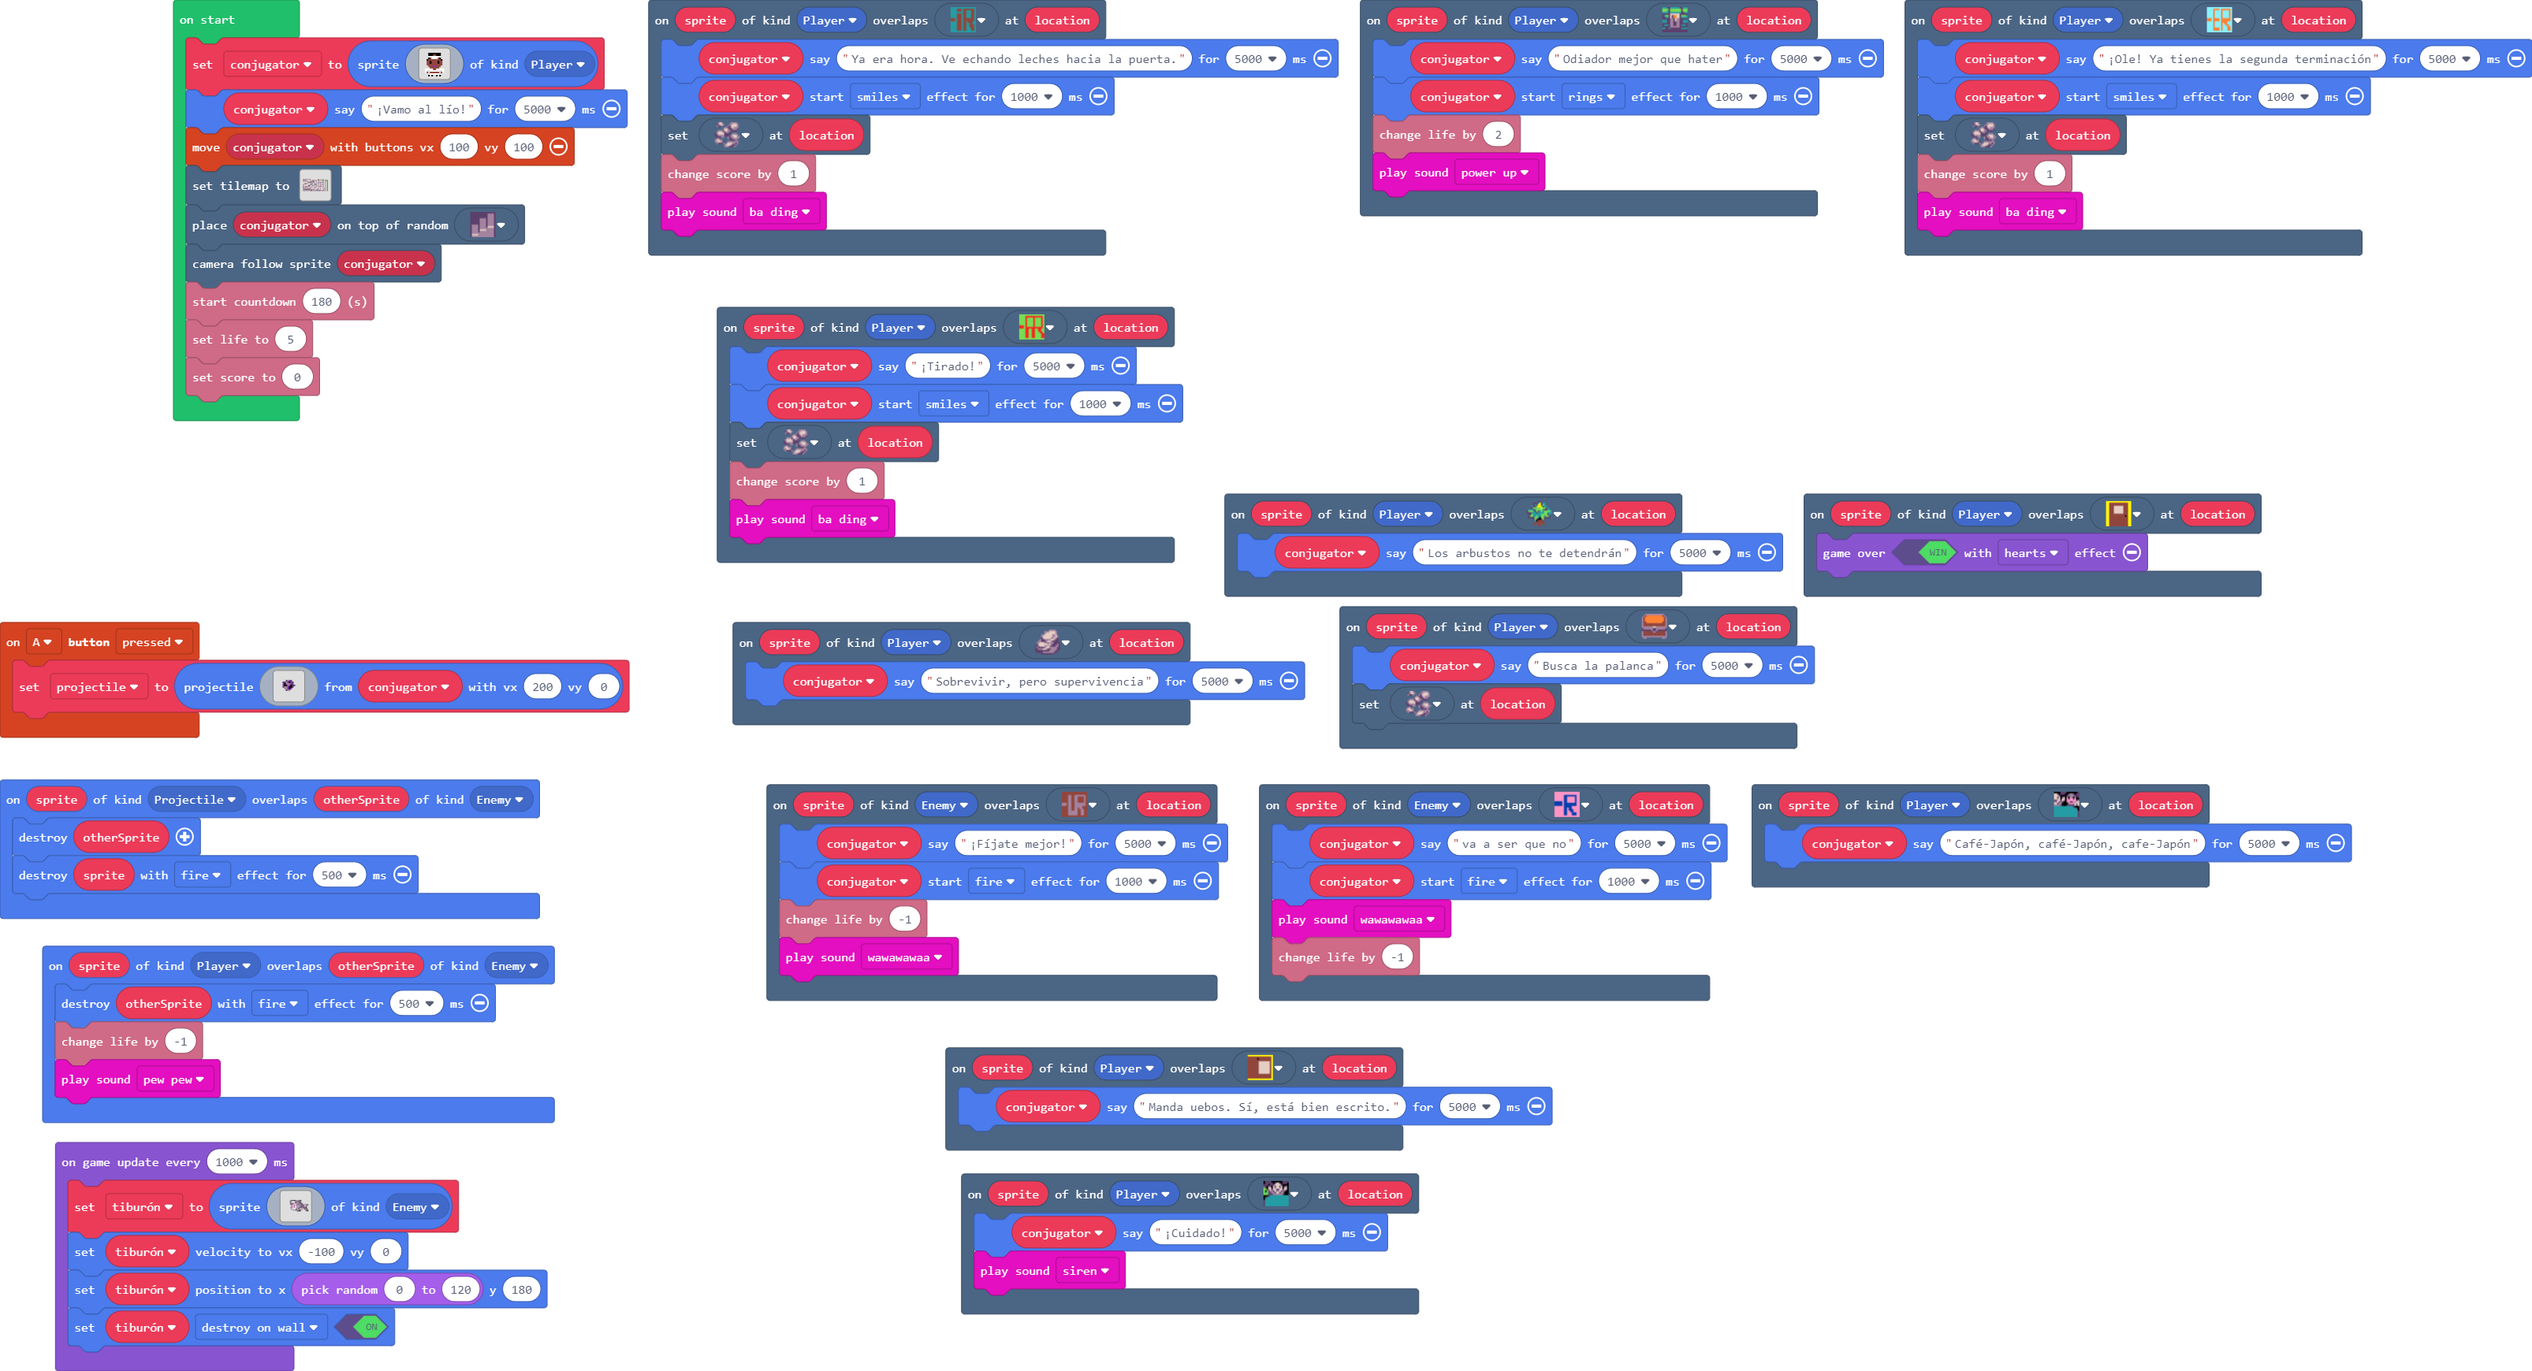
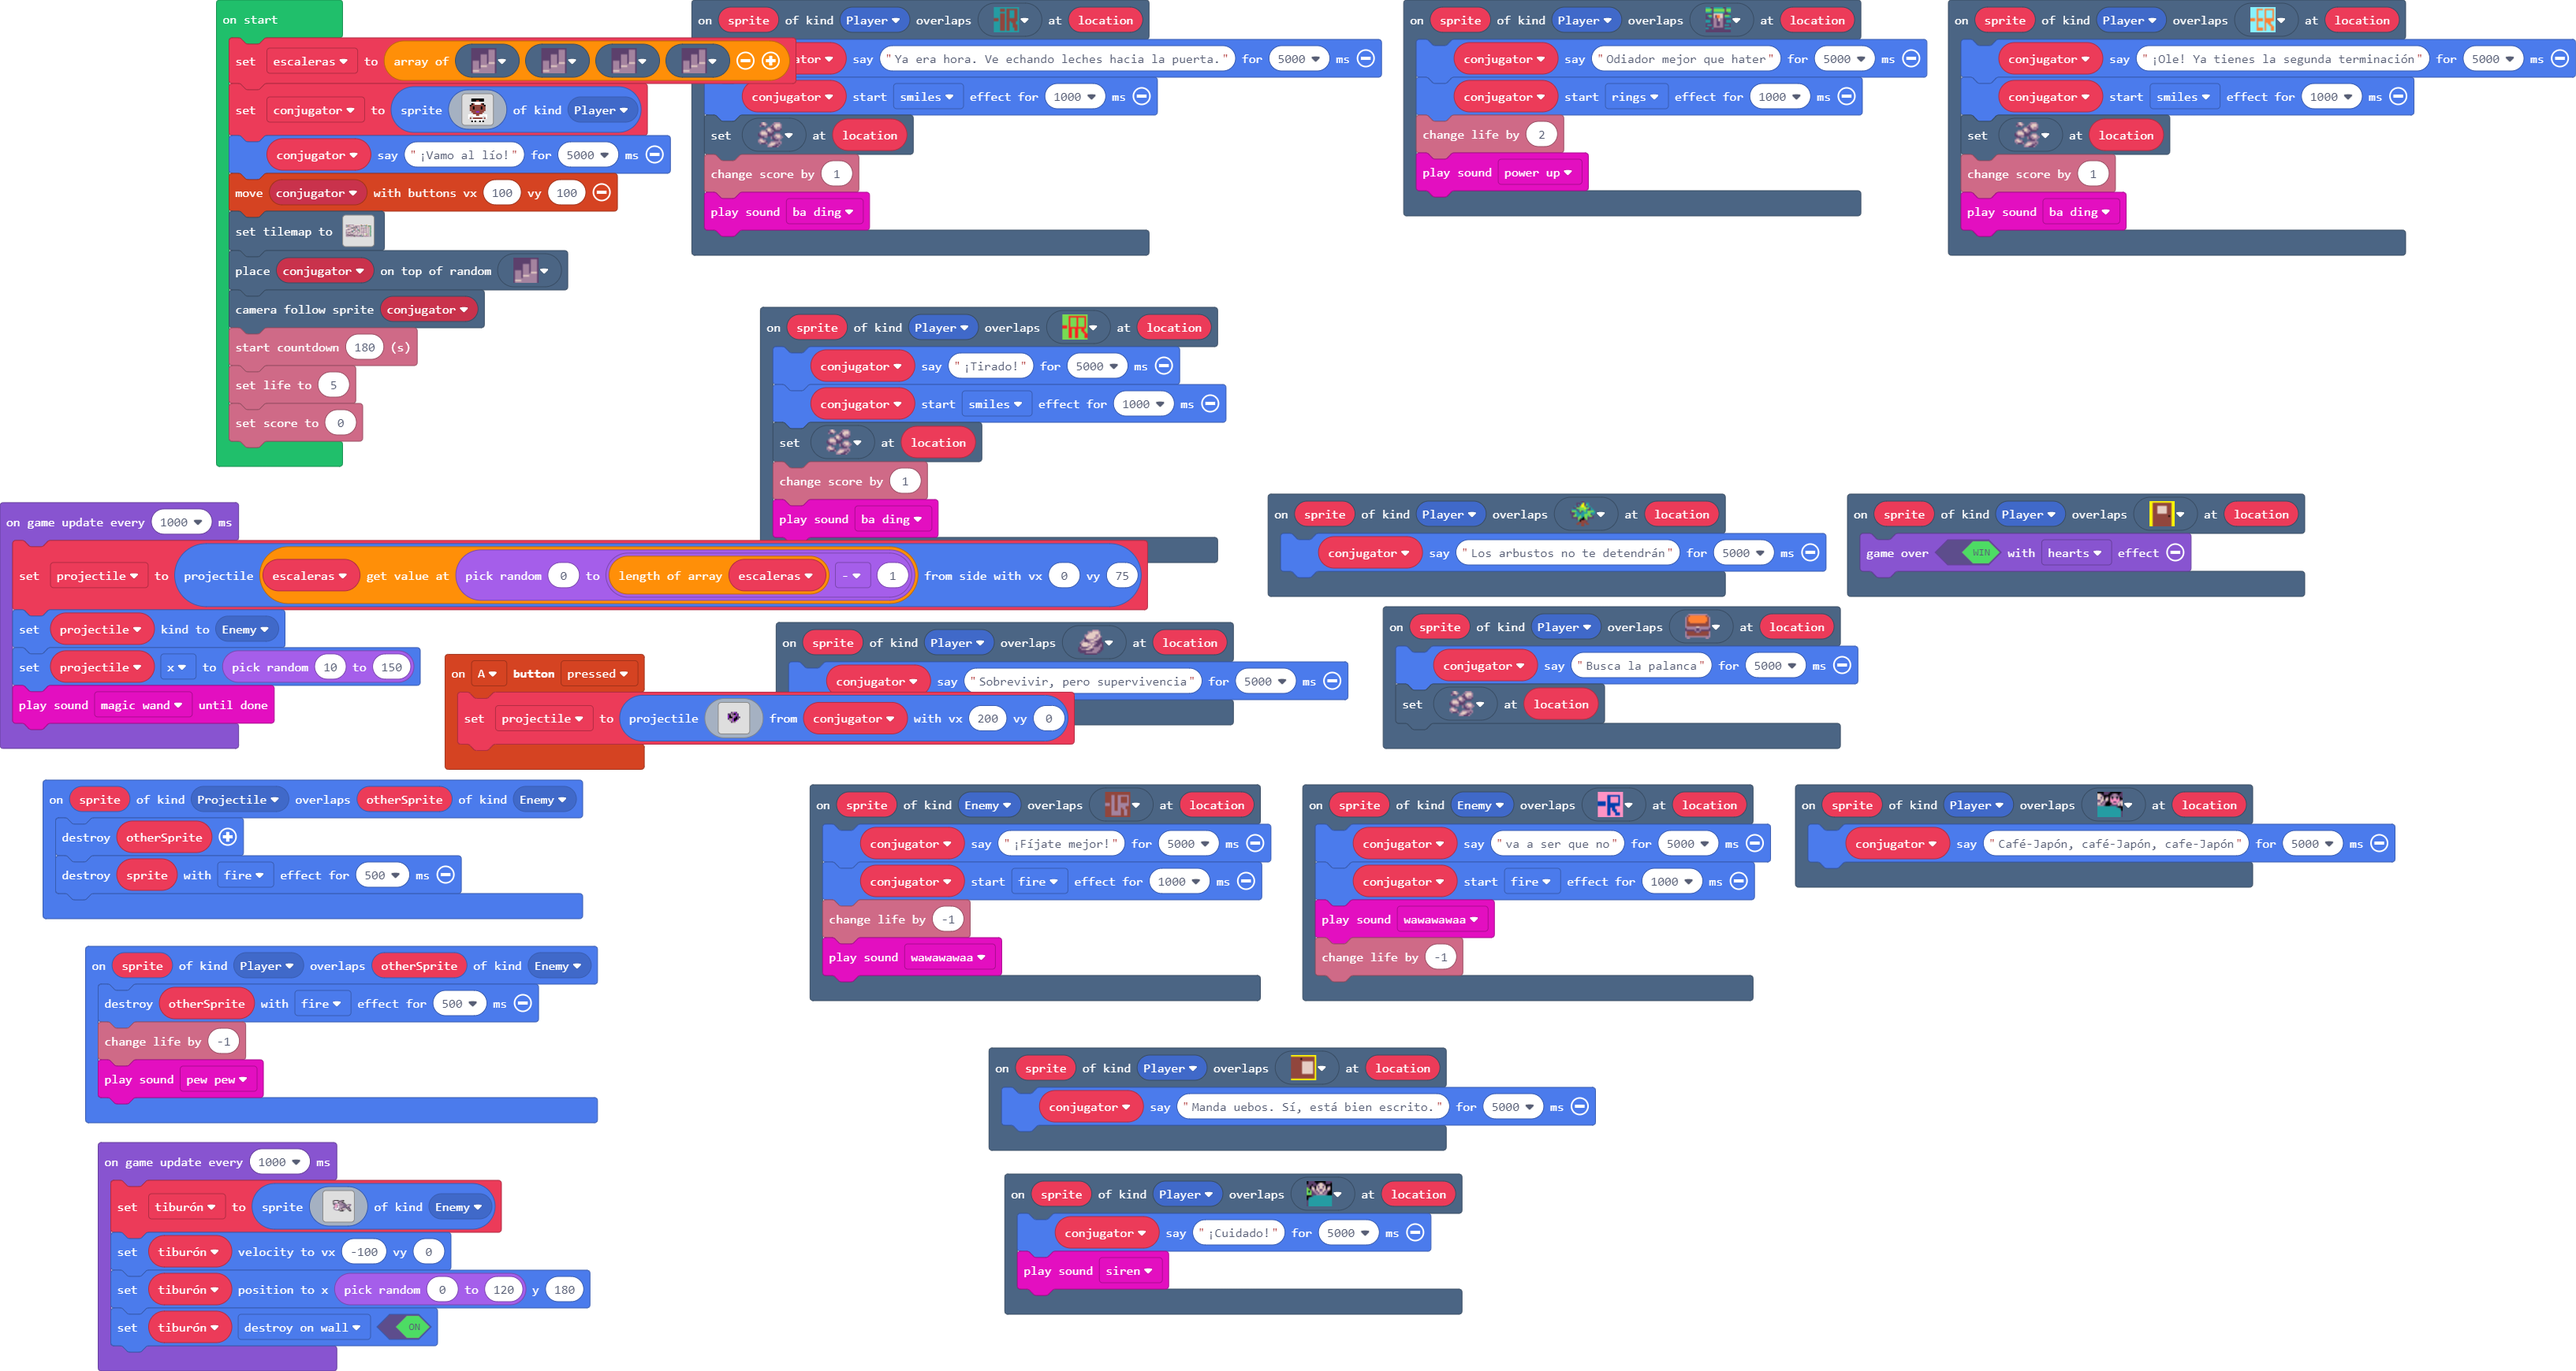
Update main.blocks, main.ts

diff --git a/main.ts b/main.ts
@@ -265,6 +265,7 @@ scene.onOverlapTile(SpriteKind.Enemy, myTiles.tile8, function (sprite, location)
 let tiburón: Sprite = null
 let projectile: Sprite = null
 let conjugator: Sprite = null
+let escaleras = [sprites.dungeon.stairLarge, sprites.dungeon.stairLarge, sprites.dungeon.stairLarge, sprites.dungeon.stairLarge]
 conjugator = sprites.create(img`
 . . . . . . . . . . . . 
 . . f f f f f f f f . . 
@@ -309,6 +310,12 @@ scene.cameraFollowSprite(conjugator)
 info.startCountdown(180)
 info.setLife(5)
 info.setScore(0)
+game.onUpdateInterval(1000, function () {
+    projectile = sprites.createProjectileFromSide(escaleras[Math.randomRange(0, escaleras.length - 1)], 0, 75)
+    projectile.setKind(SpriteKind.Enemy)
+    projectile.x = Math.randomRange(10, 150)
+    music.magicWand.playUntilDone()
+})
 game.onUpdateInterval(1000, function () {
     tiburón = sprites.create(img`
 . . . . . . . . . . . f f f f f f f . . . c c f f f . . . . . . . . . . 
